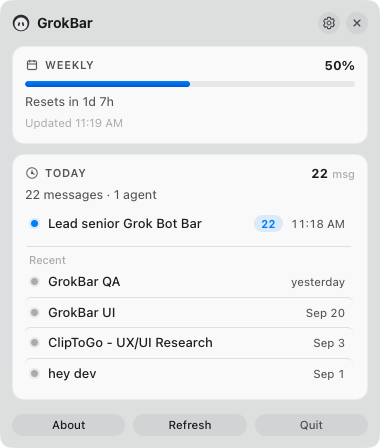
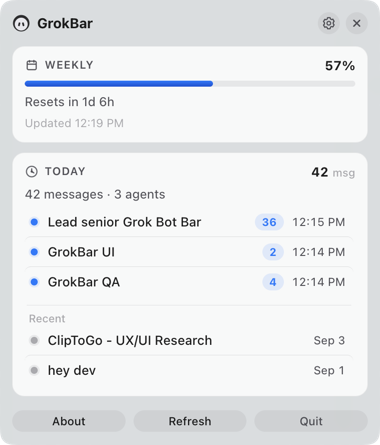
docs: richer Today screenshots and polished README gallery
Replace menubar/popup with spend-safe 0.2.3 shots (57%, fuller Today),
center the README image gallery, and gitignore screenshot .review scratch.

diff --git a/README.md b/README.md
@@ -12,11 +12,21 @@ Menu bar meters for **Grok Bot** on macOS — weekly usage %, today, and reset t
 
 ## Screenshots
 
-| Menu bar | Popup |
-| -------- | ----- |
-| ![Menu bar](docs/screenshots/menubar.png) | ![Popup](docs/screenshots/popup.png) |
+Live meters from a local **0.2.3** build — weekly %, today, and reset timing at a glance.
 
-Captured from a local 0.2.3 build without using Refresh for shots. See [docs/screenshots/README.md](docs/screenshots/README.md).
+<p align="center">
+  <strong>Menu bar</strong><br>
+  <img src="docs/screenshots/menubar.png" alt="GrokBar menu bar showing weekly usage percent" width="280"><br>
+  <sub>Weekly % beside the tray icon — no Dock clutter.</sub>
+</p>
+
+<p align="center">
+  <strong>Popup</strong><br>
+  <img src="docs/screenshots/popup.png" alt="GrokBar popup with weekly meter, today messages and agents, and reset countdown" width="400"><br>
+  <sub>Weekly progress and reset countdown, plus today’s messages and agents.</sub>
+</p>
+
+Captured without using Refresh for shots. See [docs/screenshots/README.md](docs/screenshots/README.md).
 
 ## Install from source
 
